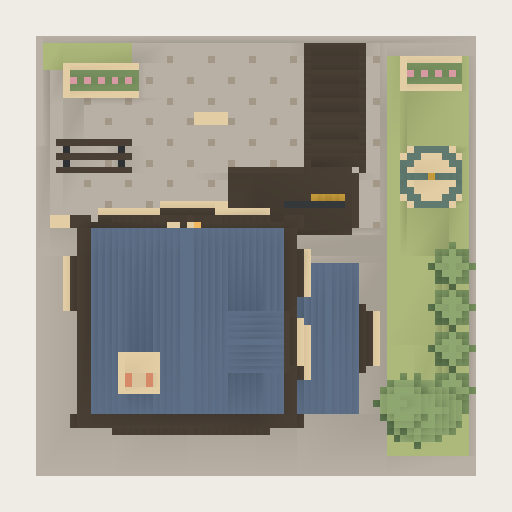
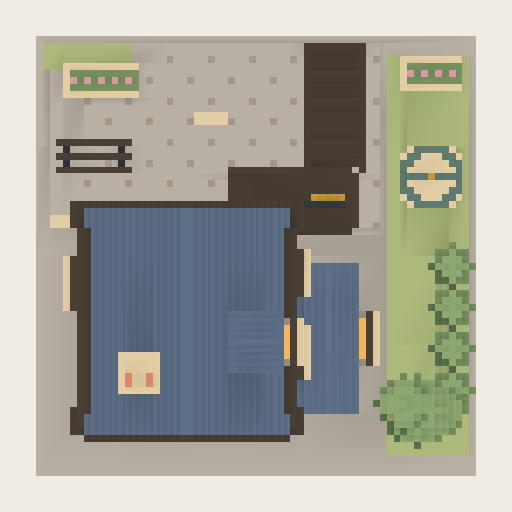
refine(ministry): thin window frames and extend ridge-end eaves

diff --git a/src/generators/ministryOfMagic.js b/src/generators/ministryOfMagic.js
@@ -3,7 +3,7 @@ import { createVoxelMassingLab, VOXEL_SIZE, VOXEL_WRITE_PRIORITIES } from "./vox
 
 export const MINISTRY_ASSET_ID = "ministry-tudor-001";
 export const MINISTRY_PARCEL_SIZE = 8;
-export const MINISTRY_ASSET_REVISION = 3;
+export const MINISTRY_ASSET_REVISION = 4;
 // Material roles match the existing civic buildings. Metal is an accent, not
 // a substitute for slate roofing or glazing; no asset-specific RGB palette.
 export const MINISTRY_MATERIALS = Object.freeze({
@@ -20,7 +20,7 @@ export function ministryOfMagicSpec() {
     baseYVoxels: base, heightVoxels: height, cap, materials, facade
   });
   const spec = createUrbanMassingSpec({
-    id: MINISTRY_ASSET_ID, seed: "ministry-tudor-voxel-v3", widthCells: 2, depthCells: 2,
+    id: MINISTRY_ASSET_ID, seed: "ministry-tudor-voxel-v4", widthCells: 2, depthCells: 2,
     masses: [
       mass("reception", -9, -10, 22, 23, 0, 18),
       mass("council", -9, -10, 28, 26, 18, 17),
@@ -44,6 +44,8 @@ export function ministryOfMagicSpec() {
 
 // Integer voxels only. Diagonal timbers and rings use 6-connected stair steps.
 export function addMinistryVoxelDetails(buffer) {
+  const roofEnds = [...buffer.voxels.values()].filter(v =>
+    (v.z===3 || v.z===-23) && v.y>=51 && v.materialId===MINISTRY_MATERIALS.roof);
   const write = { priority: VOXEL_WRITE_PRIORITIES.decoration, owner: "ministry:tudor-details" };
   const box = (m,x,y,z,w,h,d) => buffer.addBox(m,x,y,z,w,h,d,0,write);
   const voxel = (m,x,y,z) => buffer.addVoxel(m,x,y,z,0,write);
@@ -77,13 +79,12 @@ export function addMinistryVoxelDetails(buffer) {
     patch(MINISTRY_MATERIALS.window,0,0,0,w,h,1);
     // Glazing is inset behind a single-voxel frame, rather than buried in two
     // nested heavy borders. Small dormers have fewer divisions than tall bays.
-    for(const dx of [-1,w]) patch("timber",dx,-1,0,1,h+2,2);
-    for(const dy of [-1,h]) patch("timber",-1,dy,0,w+2,1,2);
+    for(const dx of [-1,w]) patch("timber",dx,-1,1,1,h+2,1);
+    for(const dy of [-1,h]) patch("timber",-1,dy,1,w+2,1,1);
     if(w>=6) patch("timber",Math.floor(w/2),0,1,1,h,1);
     if(h>=7) patch("timber",0,Math.floor(h*.57),1,w,1,1);
     patch("stoneShadow",-1,-2,0,w+2,1,2);
     patch("sandstone",-1,-2,2,w+2,1,1);
-    patch("timber",-2,h+1,0,w+4,1,1);
   }
   function planter(x,z,w=9,d=5) {
     box("sandstone",x,0,z,w,3,d); box("soil",x+1,3,z+1,w-2,1,d-2);
@@ -161,12 +162,18 @@ export function addMinistryVoxelDetails(buffer) {
   // Read the actual public-grammar roof heightfield so the timber edge cannot
   // drift away from its stepped roof. The gable infill sits one voxel behind.
   const roofHeights = new Map();
+  // Extend only the ridge-axis ends, preserving the stock roof cross-section
+  // and its thickness. Snapshot first: never iterate entries we are appending.
+  // The massing compiler currently keeps this cap inside its mass bounds;
+  // four added slices give two clear voxels beyond the projecting gable trim.
+  for(const v of roofEnds) for(const distance of [1,2,3,4])
+    voxel(MINISTRY_MATERIALS.roof,v.x,v.y,v.z+(v.z===3?distance:-distance));
   for(const v of buffer.voxels.values()) if(v.z===5 && v.y>=51 && v.materialId===MINISTRY_MATERIALS.roof)
     roofHeights.set(v.x,Math.max(roofHeights.get(v.x)??0,v.y));
-  for(const z of [5,-26]) {
+  for(const z of [5,-25]) {
     for(const [x,y] of roofHeights) {
-      voxel("timber",x,y,z);
-      if(x>=-25 && x<=4 && y>52) box("limestone",x,52,z===5?4:-25,1,y-52,1);
+      voxel("timber",x,y,z===5?7:-27);
+      if(x>=-25 && x<=4 && y>52) box("limestone",x,52,z===5?4:-24,1,y-52,1);
     }
     box("timber",-10,52,z,1,(roofHeights.get(-10)??69)-52,1);
     line("timber",[-21,52,z],[-10,64,z]); line("timber",[1,52,z],[-10,64,z]);
@@ -174,8 +181,8 @@ export function addMinistryVoxelDetails(buffer) {
   window(-13,55,5,6,7);
   window(4,58,-15,5,4,"right");
   // Compact crest and stepped eave returns, with no out-of-grid geometry.
-  for(const z of [-25,4]) {
-    box("timber",-27,50,z,3,1,2); box("timber",4,50,z,3,1,2);
+  for(const z of [-26,4]) {
+    box("timber",-27,50,z,3,1,4); box("timber",4,50,z,3,1,4);
   }
   box("brickRed",-19,51,-19,4,23,4);
   // Brick bond stays subdued; broad alternating cream stripes looked toy-like.
@@ -213,7 +220,7 @@ export function createMinistryOfMagic({ cellWorldSize = 4, nightLighting = 0 } =
     nightLighting, voxelDetailPass: addMinistryVoxelDetails });
   root.name = "MinistryOfMagic";
   root.scale.setScalar(cellWorldSize / 4);
-  root.userData.contract.sourceOfTruth = "UrbanMassingSpec + ministry-tudor-v3 authored voxel detail pass";
+  root.userData.contract.sourceOfTruth = "UrbanMassingSpec + ministry-tudor-v4 authored voxel detail pass";
   root.userData = { ...root.userData, assetId: MINISTRY_ASSET_ID, assetRevision: MINISTRY_ASSET_REVISION,
     representation: "special-landmark-voxel", sphereProjectionRoot: true,
     footprint: "2x2", entrance: "north", authoredParcelSize: 8, voxelSize: VOXEL_SIZE };

diff --git a/test/ministryOfMagic.test.js b/test/ministryOfMagic.test.js
@@ -111,6 +111,9 @@ test("Ministry shares civic roof/window roles and uses one material across every
     assert.equal(buffer.getMaterialAt(x,y,5), null, "glass stays recessed behind the one-voxel frame");
   }
   assert.equal(buffer.getMaterialAt(-19,41,5), "timber", "slender mullion projects in front of the panes");
+  assert.equal(buffer.getMaterialAt(-23,41,5), "timber");
+  assert.equal(buffer.getMaterialAt(-23,41,4), null, "frame is only one voxel deep");
+  assert.equal(buffer.getMaterialAt(-22,49,4), null, "no stacked wooden eyebrow above the frame");
   // Use a stock public building to compare actual shared material parameters,
   // not just material ID strings.
   const reference = createVoxelMassingLab({spec:civic,renderStrategy:"greedy"});
@@ -124,4 +127,23 @@ test("Ministry shares civic roof/window roles and uses one material across every
     assert.equal(material(ministry).emissiveIntensity, material(reference).emissiveIntensity);
   }
   disposeBuildingObject(reference); disposeBuildingObject(ministry);
+});
+
+test("main roof extends four slices at both ridge ends without widening the slopes", () => {
+  let inspected = false;
+  const object = createVoxelMassingLab({spec:ministryOfMagicSpec(),renderStrategy:"greedy",voxelDetailPass(buffer) {
+    const original = [...buffer.voxels.values()].filter(v =>
+      (v.z===3 || v.z===-23) && v.y>=51 && v.materialId==="slate");
+    assert.ok(original.length>30);
+    addMinistryVoxelDetails(buffer);
+    for(const v of original) {
+      const direction = v.z===3?1:-1;
+      assert.equal(buffer.getMaterialAt(v.x,v.y,v.z+3*direction),"slate");
+      assert.ok(["slate","timber"].includes(buffer.getMaterialAt(v.x,v.y,v.z+4*direction)));
+      assert.equal(buffer.getMaterialAt(v.x,v.y,v.z+5*direction),null);
+    }
+    inspected = true;
+  }});
+  assert.ok(inspected);
+  disposeBuildingObject(object);
 });

diff --git a/docs/visual-development/ministry-tudor-001/README.md b/docs/visual-development/ministry-tudor-001/README.md
@@ -1,10 +1,12 @@
-# 魔法部 · Tudor 体素魔法阁（v3）
+# 魔法部 · Tudor 体素魔法阁（v4）
 
 固定资产 `ministry-tudor-001`，2×2 逻辑格（8×8 世界单位），三层；门朝 +Z。根据提供的 Tudor 微缩模型参考，保留收窄底层、上层出挑、外置楼梯、陡山墙与烟囱。前庭为石板广场，东侧为星仪花园。
 
 v2 已完全替换最初的低多边形实现：主体直接使用公共建筑的 `UrbanMassingSpec`，所有附属细节写入同一个 `VoxelInstanceBuffer`，再统一剔除隐藏面、贪心合并。屋顶、斜撑、星仪、树冠全部由 0.125 网格上的轴对齐体素面构成，没有圆柱、球面或倾斜三角面。
 
 v3 对齐现有公共建筑的材质用途：蓝灰 `slate` 屋顶、暖米色 `limestone` 墙面、`timber` 木构与统一 `warmWindow` 窗面。初版的铜绿窗面加单个暖黄窗格原是“局部亮灯”的表达，但看起来像拼色，且铜绿金属不应该充当玻璃，因此已移除；铜绿与金色只保留在庭院星仪和部徽等小面积五金上。窗框改为一体素细框，窗面内凹，托木、檐口、窗台花箱与烟囱细节同时精修。材质颜色、粗糙度、金属度与日夜发光参数复用共享公共建筑管线，不添加专属 RGB。
+
+v4 保留一体素正面框宽，将窗框进深从两体素减为一体素，取消叠加木眉。主屋顶沿屋脊前后各延长四个体素切片，越过山墙木构再挑出两格；不改变屋坡横向跨度。原公共体量编译路径尚未应用 `overhangVoxels`，本资产在细节写入阶段复制真实屋顶端部截面，明确生成出挑几何，避免只调整无效参数。
 
 ![正面](refined-front.png)
 
@@ -27,10 +29,10 @@ pnpm visualize:building public/generated/ministry-tudor-001/asset.json docs/visu
 - `src/generators/ministryOfMagic.js` 为权威资产源。公共语法控制分层体量、堆叠关系、屋顶高度场与庭院地面；定制体素细节控制 Tudor 木构、门窗、楼梯与园景。
 - `facade.enabled: false` 允许这个固定地标自绘门窗，避免默认开窗与手工立面叠加；普通公共建筑的默认行为保持不变。
 - `voxelDetailPass` 是模型工厂内部的 JavaScript 回调，在表面剔除前写入体素，不是对外 JSON API。
-- 使用现有公共建筑材质、日夜窗光、体素 AO 和 greedy meshing；9722 三角形、9 次绘制，零贴图、零额外点光源。
+- 使用现有公共建筑材质、日夜窗光、体素 AO 和 greedy meshing；10674 三角形、9 次绘制，零贴图、零额外点光源。
 - 已有和新建的 2×2 魔法部通过特殊卡身份选取该固定资产；放置预览与城市、CLI 共用同一工厂。历史非 2×2 记录保持原路径。
 - 与公共建筑一致，地块基底在 Y=-0.25..0，主体从 Y=0 起。入口支持四向旋转，整体保持球面摆放。
 - 本机测得 1024 预览约 0.44 秒，512 背面约 0.29 秒（包含模型编译，不包含 worker 启动）。
-- 77 项相关测试、生产构建通过；测试覆盖公共语法回归、每个顶点落在体素网格上、面法向轴对齐、四向边界、材质预算、全部网格的城市/预览一致性和确定性三视图。新增测试对比现有公共建筑的真实窗材质参数，并验证四个窗格统一材质、窗面内凹以及日夜发光一致。
+- 78 项相关测试、生产构建通过；测试覆盖公共语法回归、每个顶点落在体素网格上、面法向轴对齐、四向边界、材质预算、全部网格的城市/预览一致性和确定性三视图。测试对比现有公共建筑的真实窗材质参数，并验证窗格统一材质、窗面内凹、单层窗框、日夜发光一致及屋脊两端真实出挑。
 
 本次不更改魔法部的招募、席位、成本或其他游戏效果。
